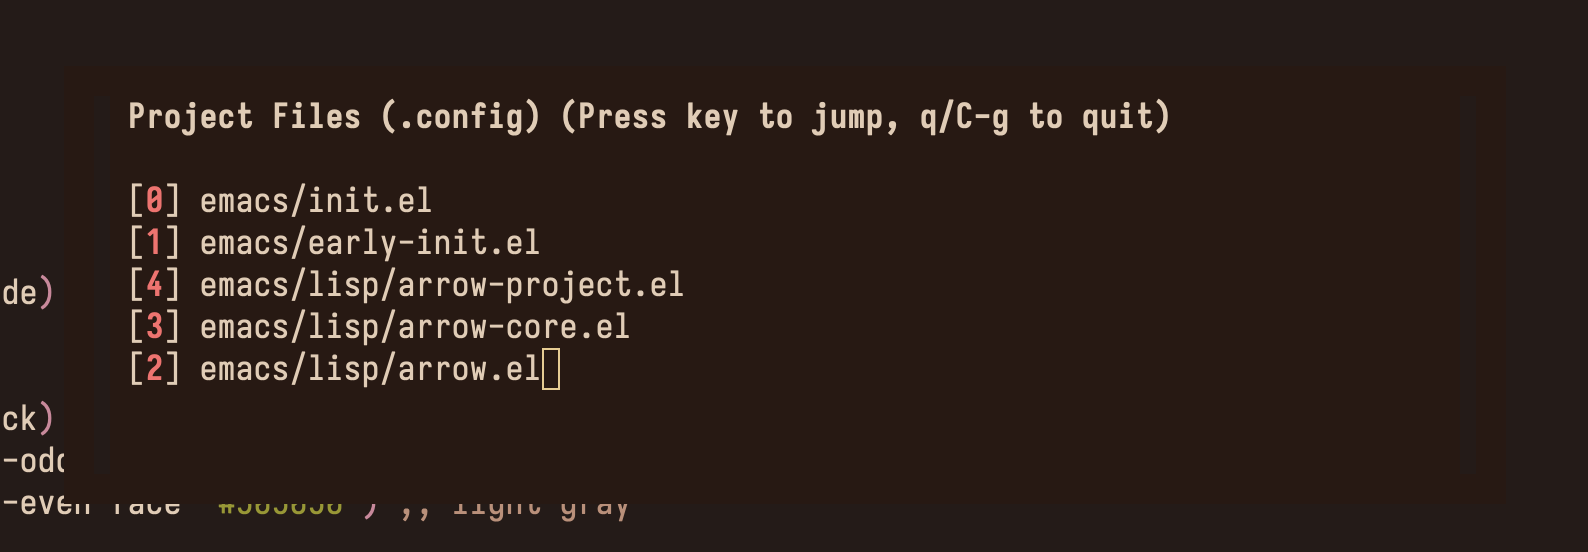
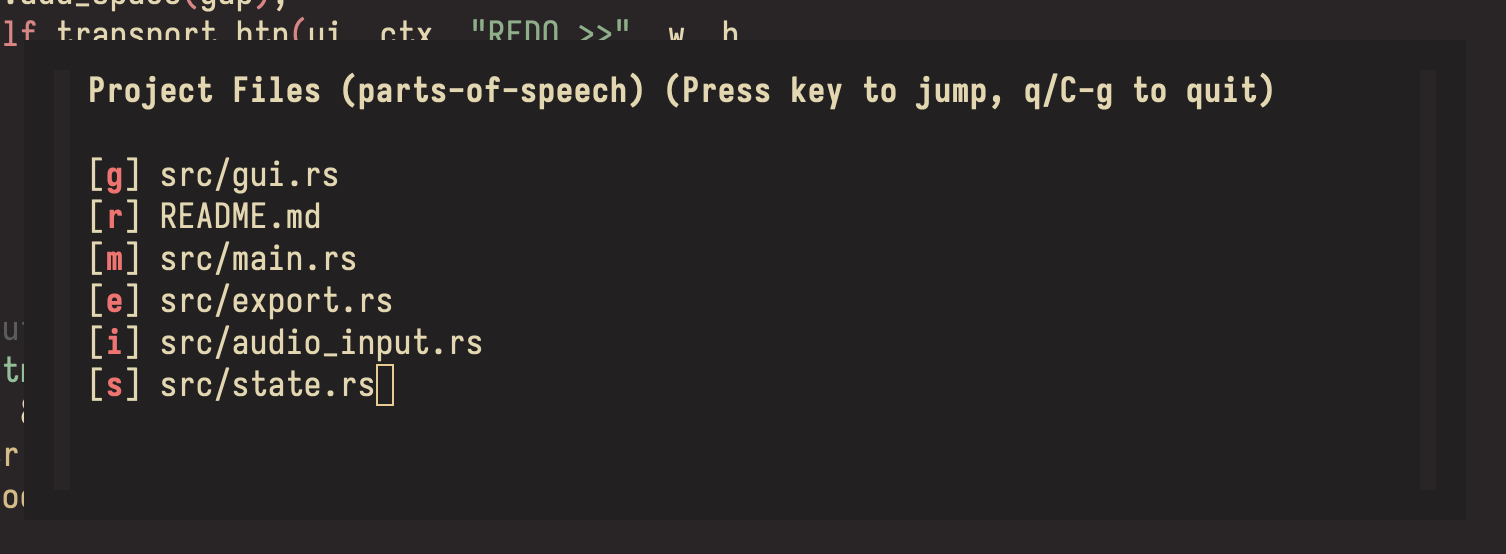
updated project example

diff --git a/README.md b/README.md
@@ -80,7 +80,7 @@ Use these when you've confidently memorized your keybindings.
 *Example using my init.el: d->dired, o->org, g->general, t->themes, m->magit*
 
 ![project screenshot](screenshots/arrow-project.png)
-*Example using user emacs directory as project*
+*Example using one of my projects*
 
 
 ## Todo
